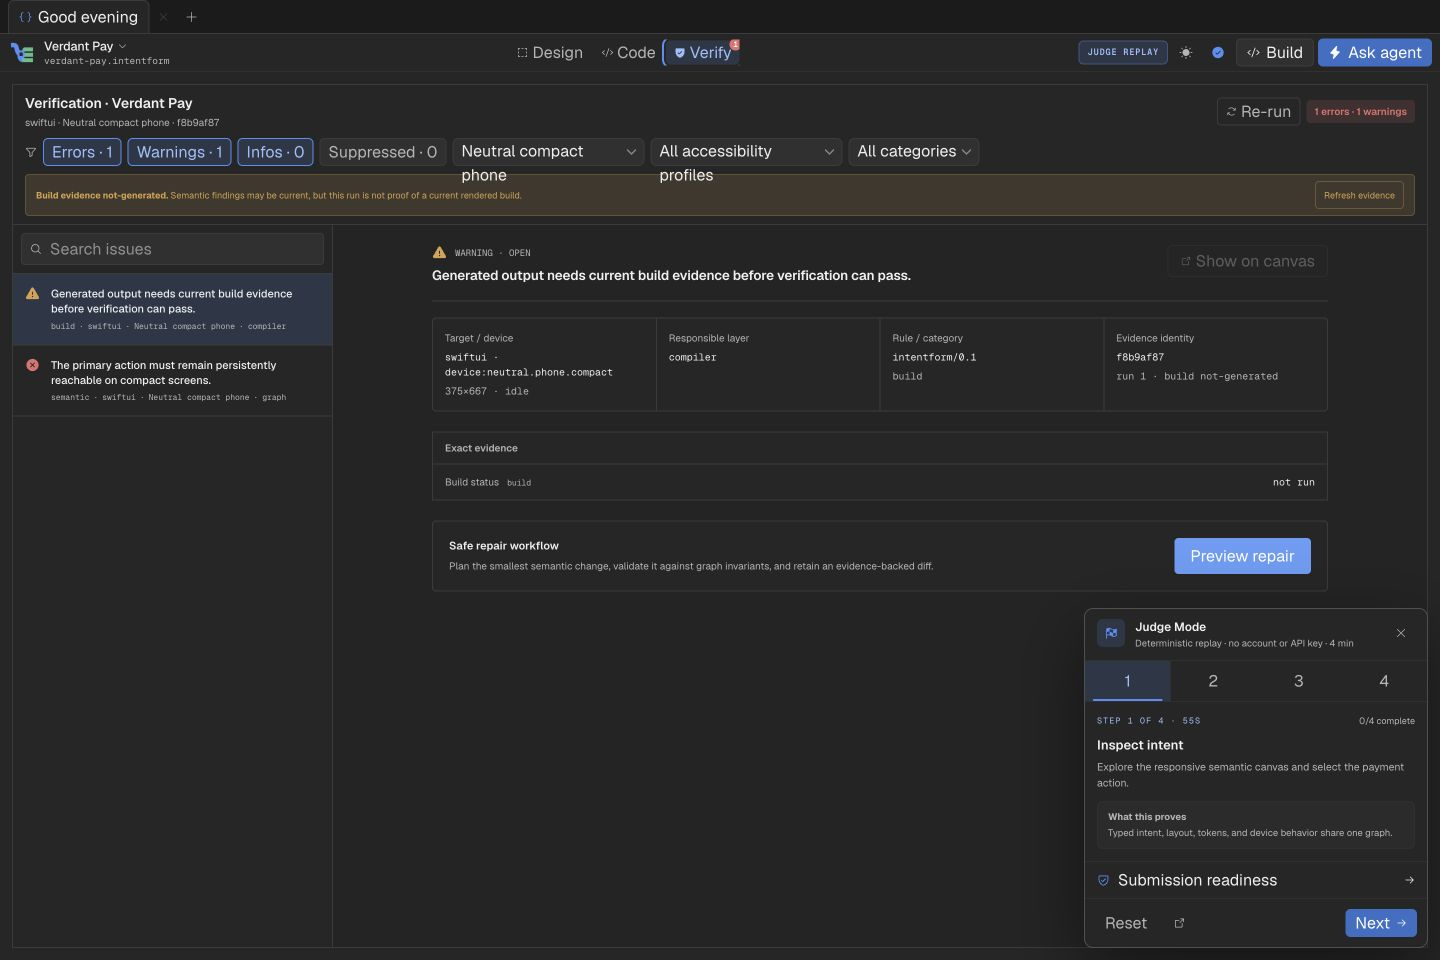
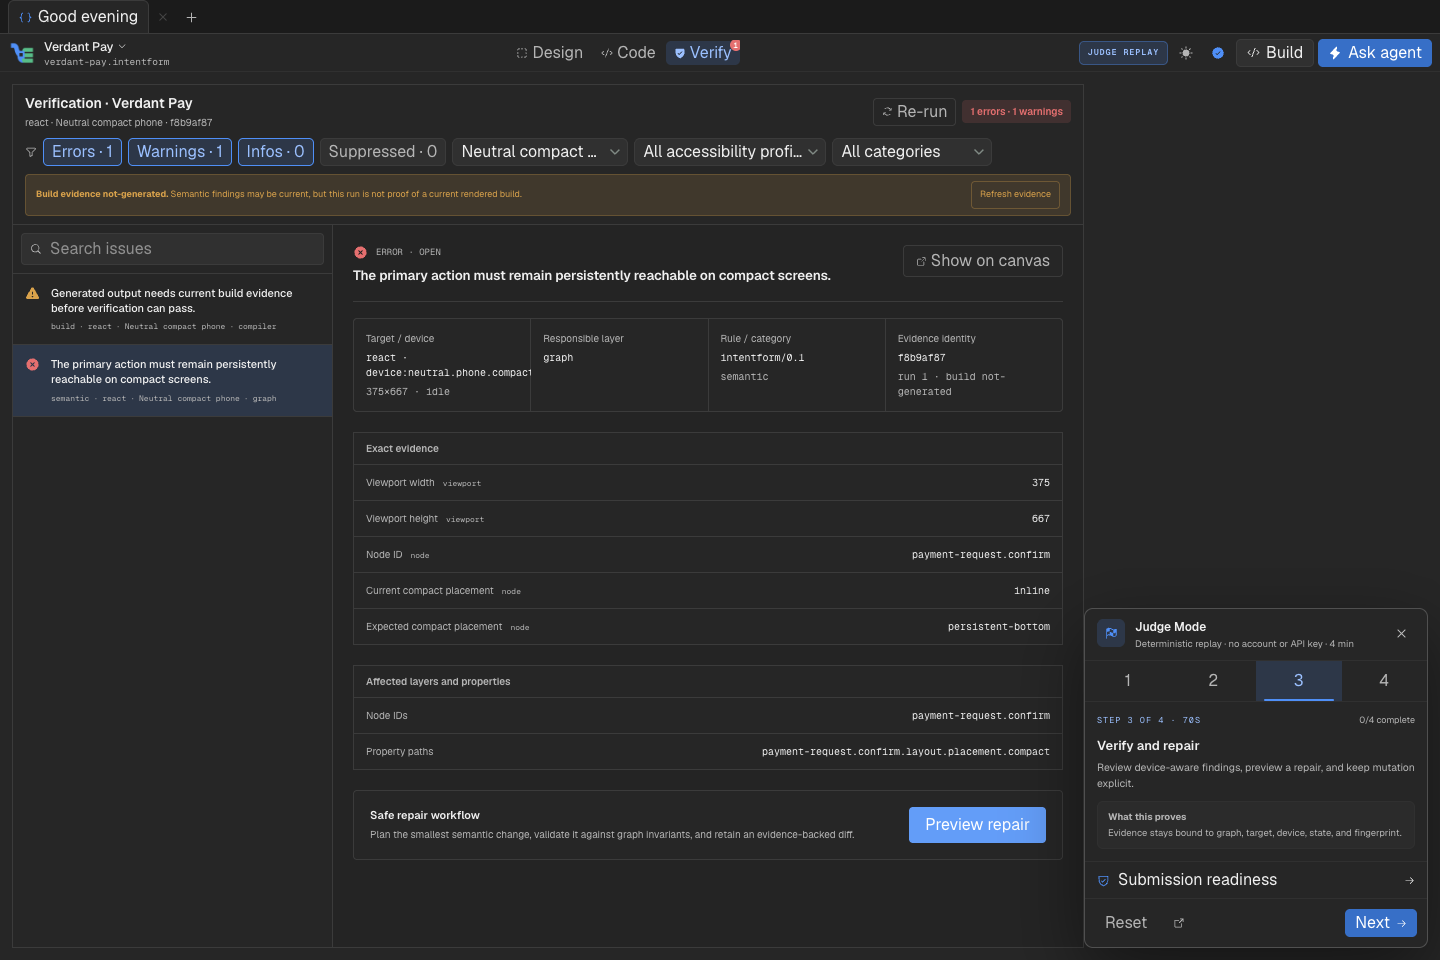
fix: harden the final judge walkthrough

diff --git a/scripts/smoke-studio.ts b/scripts/smoke-studio.ts
@@ -542,6 +542,29 @@ try {
       await panel.getByRole("button", { name: /^3\. Verify and repair/ }).click();
       await judgePage.waitForURL(`${origin}/studio?judge=1&step=verify`);
       await judgePage.getByRole("button", { name: "Verification" }).and(judgePage.locator('[aria-current="page"]')).waitFor();
+      await judgePage.waitForFunction(() => document.querySelector('[data-testid="judge-mode-panel"] [aria-expanded]')?.getAttribute("aria-expanded") === "false");
+      const verificationDevice = judgePage.getByLabel("Verification device");
+      await verificationDevice.selectOption("device:neutral.phone.compact");
+      const filterSelectPresentation = await judgePage.locator('[aria-label="Verification filters"] select').evaluateAll((elements) => elements.map((element) => {
+        const style = getComputedStyle(element);
+        const rect = element.getBoundingClientRect();
+        return {
+          height: rect.height,
+          width: rect.width,
+          whiteSpace: style.whiteSpace,
+        };
+      }));
+      if (filterSelectPresentation.some((control) => control.height > 29 || control.width < 150 || control.whiteSpace !== "nowrap")) {
+        throw new Error(`Verification select labels can escape their compact controls: ${JSON.stringify(filterSelectPresentation)}`);
+      }
+      const actionableFinding = judgePage.getByRole("button", { name: /primary action must remain persistently reachable/i });
+      if (await actionableFinding.getAttribute("aria-pressed") !== "true") {
+        throw new Error("Judge Mode did not select the actionable semantic finding before the build-evidence warning");
+      }
+      await judgePage.getByRole("button", { name: "Preview repair" }).click();
+      const repairPreview = judgePage.getByLabel("Repair preview");
+      await repairPreview.waitFor();
+      await repairPreview.getByRole("button", { name: "Dismiss" }).click();
       await judgePage.reload({ waitUntil: "networkidle" });
       await judgePage.getByTestId("judge-mode-panel").getByRole("button", { name: /^3\. Verify and repair/ }).and(judgePage.locator('[aria-current="step"]')).waitFor();
       await mkdir(join(root, "output/playwright"), { recursive: true });

diff --git a/apps/studio-web/components/stages/verify-stage.tsx b/apps/studio-web/components/stages/verify-stage.tsx
@@ -22,6 +22,7 @@ import type { ScenarioId } from "../studio";
 import {
   countVerificationFindings,
   filterVerificationFindings,
+  preferredVerificationFindingId,
   type VerificationCategory,
   type VerificationSeverity,
   type RepairPreview,
@@ -76,7 +77,7 @@ export function VerifyStage({
   const [showSuppressed, setShowSuppressed] = useState(false);
   const [profileId, setProfileId] = useState("all");
   const [category, setCategory] = useState<"all" | VerificationCategory>("all");
-  const [selectedId, setSelectedId] = useState<string | null>(verification.findings[0]?.id ?? null);
+  const [selectedId, setSelectedId] = useState<string | null>(() => preferredVerificationFindingId(verification.findings));
   const counts = useMemo(() => countVerificationFindings(verification.findings), [verification.findings]);
   const visible = useMemo(() => filterVerificationFindings(verification.findings, {
     profileId,
@@ -93,7 +94,7 @@ export function VerifyStage({
 
   useEffect(() => {
     if (selectedId && verification.findings.some((finding) => finding.id === selectedId)) return;
-    setSelectedId(verification.findings[0]?.id ?? null);
+    setSelectedId(preferredVerificationFindingId(verification.findings));
   }, [selectedId, verification.findings]);
 
   const toggleSeverity = (severity: VerificationSeverity) => setSeverities((current) => {
@@ -119,9 +120,9 @@ export function VerifyStage({
           <Funnel size={12} className="shrink-0 text-[var(--faint)]" />
           {(["error", "warning", "info"] as const).map((severity) => <button key={severity} type="button" aria-pressed={severities.has(severity)} data-state={severities.has(severity) ? "active" : "idle"} onClick={() => toggleSeverity(severity)} className="if-editor-filter h-7 shrink-0 px-2 text-[9px] font-semibold capitalize">{severity}s · {counts[severity]}</button>)}
           <button type="button" aria-pressed={showSuppressed} data-state={showSuppressed ? "active" : "idle"} onClick={() => setShowSuppressed((value) => !value)} className="if-editor-filter h-7 shrink-0 px-2 text-[9px] font-semibold">Suppressed · {counts.suppressed}</button>
-          <select aria-label="Verification device" value={scenarioId} onChange={(event) => setScenarioId(event.target.value as ScenarioId)} className="select-control h-7 min-h-0 max-w-full text-[9px] sm:max-w-48">{Object.entries(scenarios).map(([id, item]) => <option key={id} value={id}>{item.label}</option>)}</select>
-          <select aria-label="Accessibility profile filter" value={profileId} onChange={(event) => setProfileId(event.target.value)} className="select-control h-7 min-h-0 max-w-full text-[9px] sm:max-w-48"><option value="all">All accessibility profiles</option>{ACCESSIBILITY_PROFILES.map((profile) => <option key={profile.id} value={profile.id}>{profile.id} · {profile.locale} · {Math.round(profile.textScale * 100)}%</option>)}</select>
-          <select aria-label="Verification category filter" value={category} onChange={(event) => setCategory(event.target.value as "all" | VerificationCategory)} className="select-control h-7 min-h-0 max-w-full text-[9px] sm:max-w-48"><option value="all">All categories</option><option value="design-quality">Design quality</option><option value="accessibility">Accessibility</option><option value="build">Build evidence</option><option value="semantic">Semantic intent</option></select>
+          <select aria-label="Verification device" title={scenario.label} value={scenarioId} onChange={(event) => setScenarioId(event.target.value as ScenarioId)} className="select-control if-compact-select h-7 w-44 max-w-full shrink-0 text-[9px]">{Object.entries(scenarios).map(([id, item]) => <option key={id} value={id}>{item.label}</option>)}</select>
+          <select aria-label="Accessibility profile filter" value={profileId} onChange={(event) => setProfileId(event.target.value)} className="select-control if-compact-select h-7 w-48 max-w-full shrink-0 text-[9px]"><option value="all">All accessibility profiles</option>{ACCESSIBILITY_PROFILES.map((profile) => <option key={profile.id} value={profile.id}>{profile.id} · {profile.locale} · {Math.round(profile.textScale * 100)}%</option>)}</select>
+          <select aria-label="Verification category filter" value={category} onChange={(event) => setCategory(event.target.value as "all" | VerificationCategory)} className="select-control if-compact-select h-7 w-40 max-w-full shrink-0 text-[9px]"><option value="all">All categories</option><option value="design-quality">Design quality</option><option value="accessibility">Accessibility</option><option value="build">Build evidence</option><option value="semantic">Semantic intent</option></select>
         </div>
         {!evidenceIsCurrent ? <div role="status" data-testid="verification-evidence-state" data-state={buildEvidenceState} className="mt-2 flex items-center justify-between gap-3 rounded border border-[var(--warn)]/25 bg-[var(--warn-soft)] px-2.5 py-1.5 text-[9px] text-[var(--warn)]"><span><strong>Build evidence {buildEvidenceState}.</strong> Semantic findings may be current, but this run is not proof of a current rendered build.</span><button type="button" onClick={rerunVerification} disabled={isPending} className="min-h-7 shrink-0 rounded border border-[var(--warn)]/30 px-2 py-1 font-semibold disabled:opacity-40">Refresh evidence</button></div> : null}
       </header>
@@ -158,7 +159,7 @@ export function VerifyStage({
 
               {selected.suppressionReason ? <p className="mt-4 rounded border border-[var(--warn)]/30 bg-[var(--warn-soft)] p-3 text-[10px] text-[var(--warn)]">Suppression: {selected.suppressionReason}</p> : null}
               <section className="mt-5 rounded border border-[var(--line)] bg-[var(--panel)] p-4">
-                <div className="flex items-center justify-between gap-4"><div><h4 className="text-[11px] font-semibold text-[var(--ink)]">Safe repair workflow</h4><p className="mt-1 text-[10px] leading-relaxed text-[var(--muted)]">{selected.suggestedRepair?.description ?? "Plan the smallest semantic change, validate it against graph invariants, and retain an evidence-backed diff."}</p></div><button type="button" onClick={() => previewRepair(selected)} disabled={isPending || selected.status === "suppressed"} className="min-h-9 shrink-0 rounded bg-[var(--accent-deep)] px-4 text-[10px] font-semibold text-white disabled:opacity-40">Preview repair</button></div>
+                <div className="flex items-center justify-between gap-4"><div><h4 className="text-[11px] font-semibold text-[var(--ink)]">{selected.category === "build" ? "Build evidence workflow" : "Safe repair workflow"}</h4><p className="mt-1 text-[10px] leading-relaxed text-[var(--muted)]">{selected.category === "build" ? "Generate or refresh the target build, then bind the new evidence to the current graph fingerprint." : selected.suggestedRepair?.description ?? "Plan the smallest semantic change, validate it against graph invariants, and retain an evidence-backed diff."}</p></div>{selected.category === "build" ? <button type="button" onClick={rerunVerification} disabled={isPending} className="min-h-9 shrink-0 rounded border border-[var(--line)] px-4 text-[10px] font-semibold text-[var(--muted)] disabled:opacity-40">Refresh evidence</button> : <button type="button" onClick={() => previewRepair(selected)} disabled={isPending || selected.status === "suppressed"} className="min-h-9 shrink-0 rounded bg-[var(--accent-deep)] px-4 text-[10px] font-semibold text-white disabled:opacity-40">Preview repair</button>}</div>
                 {repairPreview?.findingId === selected.id ? (
                   <div className="mt-4 border-t border-[var(--line)] pt-4" aria-label="Repair preview">
                     <div className="flex items-start justify-between gap-3"><div><strong className="text-[10px] text-[var(--ink)]">{repairPreview.proposal.summary}</strong><p className="mt-1 font-mono text-[8px] text-[var(--faint)]">Source {repairPreview.sourceFingerprint} · {repairPreview.proposal.patch.operations.length} operation(s) · {repairPreview.changes.length} semantic change(s)</p></div><div className="flex gap-1.5"><button type="button" onClick={dismissRepair} className="h-8 rounded border border-[var(--line)] px-3 text-[9px] font-semibold text-[var(--muted)]">Dismiss</button><button type="button" onClick={applyRepair} disabled={repairPreview.sourceFingerprint !== sourceFingerprint} className="h-8 rounded bg-[var(--accent-deep)] px-3 text-[9px] font-semibold text-white disabled:opacity-40">Apply repair</button></div></div>

diff --git a/apps/studio-web/components/stages/workspace-model.test.ts b/apps/studio-web/components/stages/workspace-model.test.ts
@@ -8,6 +8,7 @@ import {
   filterVerificationFindings,
   localPreviewTarget,
   matchingCodeLineNumbers,
+  preferredVerificationFindingId,
   reconcileComparisonProfileIds,
   replaceComparisonProfile,
   usableLocalPreview,
@@ -115,6 +116,17 @@ describe("Code and Verify workspace model", () => {
       finding({ id: "suppressed", status: "suppressed" }),
     ];
     expect(countVerificationFindings(findings)).toEqual({ error: 1, warning: 1, info: 1, suppressed: 1 });
+  });
+
+  it("prefers an actionable semantic error over build evidence and suppressed findings", () => {
+    const findings = [
+      finding({ id: "build", category: "build", severity: "warning" }),
+      finding({ id: "suppressed-error", category: "semantic", status: "suppressed" }),
+      finding({ id: "semantic-error", category: "semantic", severity: "error" }),
+    ];
+    expect(preferredVerificationFindingId(findings)).toBe("semantic-error");
+    expect(preferredVerificationFindingId([findings[0]!])).toBe("build");
+    expect(preferredVerificationFindingId([])).toBeNull();
   });
 
   it("filters by severity, suppression, profile, and searchable evidence identity", () => {

diff --git a/apps/studio-web/components/stages/workspace-model.ts b/apps/studio-web/components/stages/workspace-model.ts
@@ -184,6 +184,16 @@ export function countVerificationFindings(findings: readonly VerificationFinding
   };
 }
 
+export function preferredVerificationFindingId(findings: readonly VerificationFinding[]): string | null {
+  const open = findings.filter((finding) => finding.status !== "suppressed");
+  return open.find((finding) => finding.severity === "error" && finding.category !== "build")?.id
+    ?? open.find((finding) => finding.category !== "build")?.id
+    ?? open.find((finding) => finding.severity === "error")?.id
+    ?? open[0]?.id
+    ?? findings[0]?.id
+    ?? null;
+}
+
 export function filterVerificationFindings(
   findings: readonly VerificationFinding[],
   options: {

diff --git a/apps/studio-web/app/globals.css b/apps/studio-web/app/globals.css
@@ -280,6 +280,7 @@ html[data-intentform-minimal-ui] .studio-topbar {
 .select-control {
   appearance: none;
   min-height: var(--if-control-standard);
+  overflow: hidden;
   padding: 0 22px 0 8px;
   border: 1px solid var(--line);
   border-radius: 6px;
@@ -289,7 +290,9 @@ html[data-intentform-minimal-ui] .studio-topbar {
   background-position: right 7px center;
   color: var(--t-strong);
   outline: none;
+  text-overflow: ellipsis;
   transition: border-color 150ms ease, box-shadow 150ms ease;
+  white-space: nowrap;
 }
 .select-control:hover { border-color: var(--line-strong); }
 .select-control:focus {
@@ -304,6 +307,9 @@ html[data-intentform-minimal-ui] .studio-topbar {
   .select-control,
   .select-control::picker(select) {
     appearance: base-select;
+  }
+  .select-control.if-compact-select {
+    appearance: none;
   }
   .select-control::picker-icon { display: none; }
   .select-control::picker(select) {

diff --git a/apps/studio-web/components/judge-mode.tsx b/apps/studio-web/components/judge-mode.tsx
@@ -79,6 +79,10 @@ export function JudgeModePanel({ session, onSelectStep, onAdvance, onReset, onEx
     return () => controller.abort();
   }, [readiness, readinessError, readinessOpen]);
 
+  useEffect(() => {
+    setReadinessOpen(false);
+  }, [session.activeStep]);
+
   return (
     <aside data-testid="judge-mode-panel" aria-label="Judge Mode walkthrough" className="fixed bottom-3 right-3 z-30 flex max-h-[calc(100dvh-24px)] w-[min(344px,calc(100vw-24px))] flex-col overflow-hidden rounded-[9px] border border-[var(--if-border-strong)] bg-[var(--if-panel)] shadow-[var(--if-shadow-dialog)]">
       <header className="flex items-start gap-2.5 border-b border-[var(--if-border-subtle)] px-3 py-2.5">

diff --git a/apps/studio-web/components/studio.tsx b/apps/studio-web/components/studio.tsx
@@ -1547,7 +1547,7 @@ export function Studio() {
               initial={{ opacity: 0, y: 4 }}
               animate={{ opacity: 1, y: 0, transition: { duration: 0.12, ease: "easeOut" } }}
               exit={{ opacity: 0, transition: { duration: 0.06, ease: "easeIn" } }}
-              className={stage === "canvas" ? "h-full" : stage === "outputs" || stage === "verify" ? "h-full overflow-hidden p-2 md:p-3" : "h-full overflow-auto p-5 md:p-8"}
+              className={`${stage === "canvas" ? "h-full" : stage === "outputs" || stage === "verify" ? "h-full overflow-hidden p-2 md:p-3" : "h-full overflow-auto p-5 md:p-8"}${judgeMode && stage === "verify" ? " lg:pr-[356px]" : ""}`}
             >
               {stage === "canvas" ? (
                 <ManualEditor

diff --git a/README.md b/README.md
@@ -92,6 +92,19 @@ These captures come from the public production build at a 1440 × 960 viewport. 
 
 ## Quick start
 
+### Judge setup: no credentials required
+
+The fastest test is the hosted [Judge Mode](https://intentform-amber.vercel.app/studio?judge=1&step=design). It needs no account, installation, API key, credits, or model call. The four-step replay is deterministic, leaves durable browser projects untouched, and includes a safe repair preview.
+
+For a fresh local checkout, no `.env` file is required and judges should **not** supply a personal OpenAI key:
+
+```bash
+pnpm install --frozen-lockfile
+pnpm dev
+```
+
+Open `http://127.0.0.1:3000`, then choose **Judge Mode** or **Examples → Aster Sound**. Without `OPENAI_API_KEY`, brief interpretation and repair planning use the built-in reproducible replay paths; Design, Code, Verify, compilers, history, rollback, and the local MCP workflow remain available. `OPENAI_API_KEY` is an optional server-side deployment setting only for bounded live GPT-5.6 interpretation and repair judgment—never a browser field or a judge requirement.
+
 Requirements:
 
 - Node.js 22 or newer